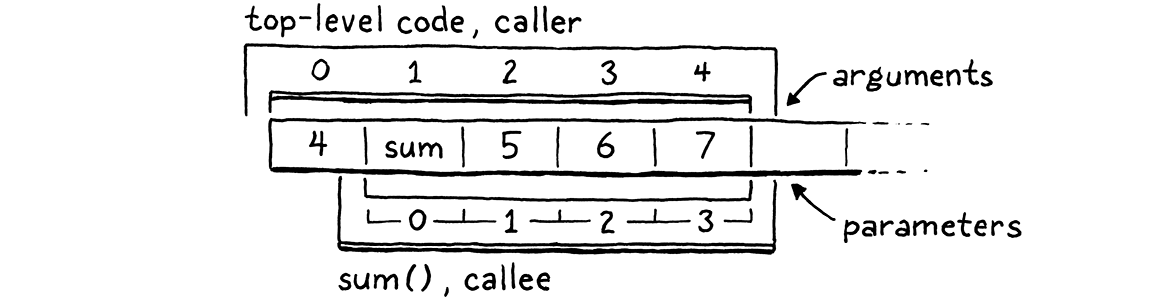
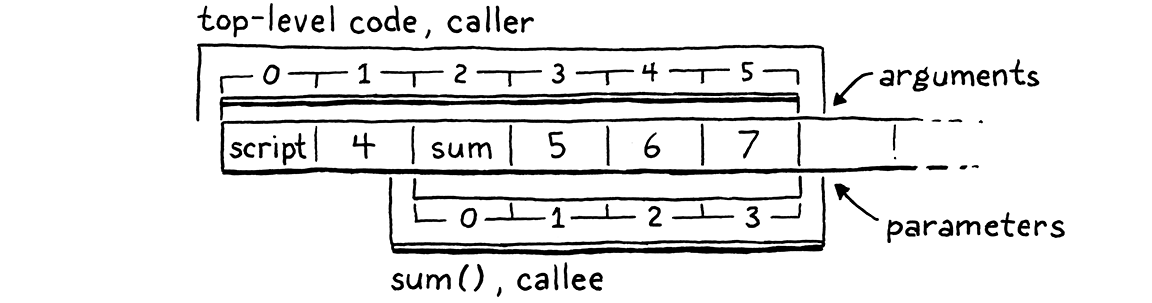
Fix illustrations.

Changed region(s): [[0.1562, 0.0297, 0.9375, 0.9802]]

diff --git a/site/calls-and-functions.html b/site/calls-and-functions.html
@@ -628,8 +628,7 @@ is a &ldquo;frame pointer&rdquo; because it points to the beginning of the funct
 frame. Sometimes you hear &ldquo;base pointer&rdquo;, because it points to the base stack
 slot on top of which all of the function&rsquo;s variables live.</p>
 <p>That&rsquo;s the first piece of data we need to track. Every time we call a function,
-the VM needs to track of the first stack slot where that function&rsquo;s variables
-begin.</p>
+the VM determines first stack slot where that function&rsquo;s variables begin.</p>
 <h3><a href="#return-addresses" name="return-addresses"><small>24&#8202;.&#8202;3&#8202;.&#8202;2</small> Return addresses</a></h3>
 <p>Right now, the VM works its way through the instruction stream by incrementing
 the <code>ip</code> field. The only interesting behavior is around control flow
@@ -860,10 +859,11 @@ replace 10 lines</div>
 <pre class="insert"><span></span>  <span class="n">ObjFunction</span><span class="o">*</span> <span class="n">function</span> <span class="o">=</span> <span class="n">compile</span><span class="p">(</span><span class="n">source</span><span class="p">);</span>             
   <span class="k">if</span> <span class="p">(</span><span class="n">function</span> <span class="o">==</span> <span class="nb">NULL</span><span class="p">)</span> <span class="k">return</span> <span class="n">INTERPRET_COMPILE_ERROR</span><span class="p">;</span>
 
+  <span class="n">push</span><span class="p">(</span><span class="n">OBJ_VAL</span><span class="p">(</span><span class="n">function</span><span class="p">));</span>                             
   <span class="n">CallFrame</span><span class="o">*</span> <span class="n">frame</span> <span class="o">=</span> <span class="o">&amp;</span><span class="n">vm</span><span class="p">.</span><span class="n">frames</span><span class="p">[</span><span class="n">vm</span><span class="p">.</span><span class="n">frameCount</span><span class="o">++</span><span class="p">];</span>      
   <span class="n">frame</span><span class="o">-&gt;</span><span class="n">function</span> <span class="o">=</span> <span class="n">function</span><span class="p">;</span>                          
   <span class="n">frame</span><span class="o">-&gt;</span><span class="n">ip</span> <span class="o">=</span> <span class="n">function</span><span class="o">-&gt;</span><span class="n">chunk</span><span class="p">.</span><span class="n">code</span><span class="p">;</span>                    
-  <span class="n">frame</span><span class="o">-&gt;</span><span class="n">slots</span> <span class="o">=</span> <span class="n">vm</span><span class="p">.</span><span class="n">stackTop</span><span class="p">;</span>                          
+  <span class="n">frame</span><span class="o">-&gt;</span><span class="n">slots</span> <span class="o">=</span> <span class="n">vm</span><span class="p">.</span><span class="n">stack</span><span class="p">;</span>                             
 </pre><pre class="insert-after"><br><span></span>  <span class="n">InterpretResult</span> <span class="n">result</span> <span class="o">=</span> <span class="n">run</span><span class="p">();</span>                      
 </pre></div>
 
@@ -874,19 +874,21 @@ we just made. First, we pass the source code to the compiler. It returns us a
 new ObjFunction containing the compiled top-level code. If we get <code>NULL</code> back,
 it means there was some compile-time error which the compiler has already
 reported. In that case, we bail out since we can&rsquo;t run anything.</p>
-<p>Otherwise, we prepare an initial CallFrame to execute the new function&rsquo;s code.
-We point to the function, initialize frame&rsquo;s the <code>ip</code> to point to the beginning
-of the function&rsquo;s bytecode, and set up its stack window to start at the very
-bottom of the VM&rsquo;s value stack.</p>
+<p>Otherwise, we store the function on the stack and prepare an initial CallFrame
+to execute its code. Now you can see why the compiler sets aside local variable
+stack slot zero<span class="em">&mdash;</span>that stores the function being called. In the new CallFrame,
+we point to the function, initialize its <code>ip</code> to point to the beginning of the
+function&rsquo;s bytecode, and set up its stack window to start at the very bottom of
+the VM&rsquo;s value stack.</p>
 <p>This gets the interpreter ready to start executing code. After finishing, the VM
 used to free the hardcoded chunk. Now that the ObjFunction owns that code, we
 don&rsquo;t need to do that anymore, so the end of <code>interpret()</code> is simply:</p>
-<div class="codehilite"><pre class="insert-before"><span></span>  <span class="n">frame</span><span class="o">-&gt;</span><span class="n">slots</span> <span class="o">=</span> <span class="n">vm</span><span class="p">.</span><span class="n">stackTop</span><span class="p">;</span>
+<div class="codehilite"><pre class="insert-before"><span></span>  <span class="n">frame</span><span class="o">-&gt;</span><span class="n">slots</span> <span class="o">=</span> <span class="n">vm</span><span class="p">.</span><span class="n">stack</span><span class="p">;</span>
 <br></pre><div class="source-file"><em>vm.c</em><br>
 in <em>interpret</em>()<br>
 replace 4 lines</div>
-<pre class="insert"><span></span>  <span class="k">return</span> <span class="nf">run</span><span class="p">();</span>              
-</pre><pre class="insert-after"><span></span><span class="p">}</span>                            
+<pre class="insert"><span></span>  <span class="k">return</span> <span class="nf">run</span><span class="p">();</span>           
+</pre><pre class="insert-after"><span></span><span class="p">}</span>                         
 </pre></div>
 
 <div class="source-file-narrow"><em>vm.c</em>, in <em>interpret</em>(), replace 4 lines</div>
@@ -1200,7 +1202,7 @@ like at the point of a call and what we need to do from there. When we reach the
 call instruction, we have already executed the expression for the function being
 called followed by its arguments. Say our program looks like:</p>
 <div class="codehilite"><pre><span></span><span class="k">fun</span> <span class="n">sum</span><span class="p">(</span><span class="n">a</span><span class="p">,</span> <span class="n">b</span><span class="p">,</span> <span class="n">c</span><span class="p">)</span> <span class="p">{</span>
-  <span class="k">print</span> <span class="n">a</span> <span class="o">+</span> <span class="n">b</span> <span class="o">+</span> <span class="n">c</span><span class="p">;</span>
+  <span class="k">return</span> <span class="n">a</span> <span class="o">+</span> <span class="n">b</span> <span class="o">+</span> <span class="n">c</span><span class="p">;</span>
 <span class="p">}</span>
 
 <span class="k">print</span> <span class="mi">4</span> <span class="o">+</span> <span class="n">sum</span><span class="p">(</span><span class="mi">5</span><span class="p">,</span> <span class="mi">6</span><span class="p">,</span> <span class="mi">7</span><span class="p">);</span>
@@ -1344,12 +1346,12 @@ useful when we get to methods.</p>
 <p>Time for a quick side trip. Now that we have a handy function for initiating a
 CallFrame, we may as well use it to set up the first frame for executing the top
 level code:</p>
-<div class="codehilite"><pre class="insert-before"><span></span>  <span class="k">if</span> <span class="p">(</span><span class="n">function</span> <span class="o">==</span> <span class="nb">NULL</span><span class="p">)</span> <span class="k">return</span> <span class="n">INTERPRET_COMPILE_ERROR</span><span class="p">;</span>
-<br></pre><div class="source-file"><em>vm.c</em><br>
+<div class="codehilite"><pre class="insert-before"><br><span></span>  <span class="n">push</span><span class="p">(</span><span class="n">OBJ_VAL</span><span class="p">(</span><span class="n">function</span><span class="p">));</span>        
+</pre><div class="source-file"><em>vm.c</em><br>
 in <em>interpret</em>()<br>
 replace 4 lines</div>
-<pre class="insert"><span></span>  <span class="n">callValue</span><span class="p">(</span><span class="n">OBJ_VAL</span><span class="p">(</span><span class="n">function</span><span class="p">),</span> <span class="mi">0</span><span class="p">);</span>                     
-</pre><pre class="insert-after"><br><span></span>  <span class="k">return</span> <span class="nf">run</span><span class="p">();</span>                                        
+<pre class="insert"><span></span>  <span class="n">callValue</span><span class="p">(</span><span class="n">OBJ_VAL</span><span class="p">(</span><span class="n">function</span><span class="p">),</span> <span class="mi">0</span><span class="p">);</span>
+</pre><pre class="insert-after"><br><span></span>  <span class="k">return</span> <span class="nf">run</span><span class="p">();</span>                   
 </pre></div>
 
 <div class="source-file-narrow"><em>vm.c</em>, in <em>interpret</em>(), replace 4 lines</div>
@@ -1500,6 +1502,14 @@ and parameters. That includes the same slots the caller used to pass the
 arguments. Now that the call is done, the caller doesn&rsquo;t need them anymore. This
 means the top of the stack ends up right at the beginning of the returning
 function&rsquo;s stack window.</p>
+<div class="codehilite"><pre><span></span><span class="k">fun</span> <span class="n">sum</span><span class="p">(</span><span class="n">a</span><span class="p">,</span> <span class="n">b</span><span class="p">,</span> <span class="n">c</span><span class="p">)</span> <span class="p">{</span>
+  <span class="k">return</span> <span class="n">a</span> <span class="o">+</span> <span class="n">b</span> <span class="o">+</span> <span class="n">c</span><span class="p">;</span>
+<span class="p">}</span>
+
+<span class="k">print</span> <span class="mi">4</span> <span class="o">+</span> <span class="n">sum</span><span class="p">(</span><span class="mi">5</span><span class="p">,</span> <span class="mi">6</span><span class="p">,</span> <span class="mi">7</span><span class="p">);</span>
+</pre></div>
+
+
 <p><strong>todo: illustrate</strong></p>
 <p>We push the return value back onto the stack at that new lower location. Then we
 update the <code>run()</code> function&rsquo;s cached pointer to the current frame. Just like
@@ -1563,12 +1573,12 @@ in <em>statement</em>()</div>
 add after <em>printStatement</em>()</div>
 <pre><span></span><span class="k">static</span> <span class="kt">void</span> <span class="nf">returnStatement</span><span class="p">()</span> <span class="p">{</span>                                
   <span class="k">if</span> <span class="p">(</span><span class="n">match</span><span class="p">(</span><span class="n">TOKEN_SEMICOLON</span><span class="p">))</span> <span class="p">{</span>                                
-    <span class="n">emitByte</span><span class="p">(</span><span class="n">OP_NIL</span><span class="p">);</span>                                          
+    <span class="n">emitReturn</span><span class="p">();</span>                                              
   <span class="p">}</span> <span class="k">else</span> <span class="p">{</span>                                                     
     <span class="n">expression</span><span class="p">();</span>                                              
     <span class="n">consume</span><span class="p">(</span><span class="n">TOKEN_SEMICOLON</span><span class="p">,</span> <span class="s">&quot;Expect &#39;;&#39; after return value.&quot;</span><span class="p">);</span>
+    <span class="n">emitByte</span><span class="p">(</span><span class="n">OP_RETURN</span><span class="p">);</span>                                       
   <span class="p">}</span>                                                            
-  <span class="n">emitByte</span><span class="p">(</span><span class="n">OP_RETURN</span><span class="p">);</span>                                         
 <span class="p">}</span>                                                              
 </pre></div>
 

diff --git a/site/local-variables.html b/site/local-variables.html
@@ -551,18 +551,21 @@ when the scopes overlap such that both are visible at the same time. That&rsquo;
 shadowing, and Lox does allow that. It&rsquo;s only an error to have two variables
 with the same name in the <em>same</em> local scope.</p>
 <p>We detect that error like so:</p>
-<div class="codehilite"><pre class="insert-before"><span></span>  <span class="n">Token</span><span class="o">*</span> <span class="n">name</span> <span class="o">=</span> <span class="o">&amp;</span><span class="n">parser</span><span class="p">.</span><span class="n">previous</span><span class="p">;</span>                                                     
+<div class="codehilite"><pre class="insert-before"><span></span>  <span class="n">Token</span><span class="o">*</span> <span class="n">name</span> <span class="o">=</span> <span class="o">&amp;</span><span class="n">parser</span><span class="p">.</span><span class="n">previous</span><span class="p">;</span>                                      
 </pre><div class="source-file"><em>compiler.c</em><br>
 in <em>declareVariable</em>()</div>
-<pre class="insert"><span></span>  <span class="k">for</span> <span class="p">(</span><span class="kt">int</span> <span class="n">i</span> <span class="o">=</span> <span class="n">current</span><span class="o">-&gt;</span><span class="n">localCount</span> <span class="o">-</span> <span class="mi">1</span><span class="p">;</span> <span class="n">i</span> <span class="o">&gt;=</span> <span class="mi">0</span><span class="p">;</span> <span class="n">i</span><span class="o">--</span><span class="p">)</span> <span class="p">{</span>                                
-    <span class="n">Local</span><span class="o">*</span> <span class="n">local</span> <span class="o">=</span> <span class="o">&amp;</span><span class="n">current</span><span class="o">-&gt;</span><span class="n">locals</span><span class="p">[</span><span class="n">i</span><span class="p">];</span>                                               
-    <span class="k">if</span> <span class="p">(</span><span class="n">local</span><span class="o">-&gt;</span><span class="n">depth</span> <span class="o">!=</span> <span class="o">-</span><span class="mi">1</span> <span class="o">&amp;&amp;</span> <span class="n">local</span><span class="o">-&gt;</span><span class="n">depth</span> <span class="o">&lt;</span> <span class="n">current</span><span class="o">-&gt;</span><span class="n">scopeDepth</span><span class="p">)</span> <span class="k">break</span><span class="p">;</span> <span name="negative"></span>
-    <span class="k">if</span> <span class="p">(</span><span class="n">identifiersEqual</span><span class="p">(</span><span class="n">name</span><span class="p">,</span> <span class="o">&amp;</span><span class="n">local</span><span class="o">-&gt;</span><span class="n">name</span><span class="p">))</span> <span class="p">{</span>                                       
-      <span class="n">error</span><span class="p">(</span><span class="s">&quot;Variable with this name already declared in this scope.&quot;</span><span class="p">);</span>               
-    <span class="p">}</span>                                                                                 
-  <span class="p">}</span>                                                                                   
-<br></pre><pre class="insert-after"><span></span>  <span class="n">addLocal</span><span class="p">(</span><span class="o">*</span><span class="n">name</span><span class="p">);</span>                                                                    
-<span class="p">}</span>                                                                                     
+<pre class="insert"><span></span>  <span class="k">for</span> <span class="p">(</span><span class="kt">int</span> <span class="n">i</span> <span class="o">=</span> <span class="n">current</span><span class="o">-&gt;</span><span class="n">localCount</span> <span class="o">-</span> <span class="mi">1</span><span class="p">;</span> <span class="n">i</span> <span class="o">&gt;=</span> <span class="mi">0</span><span class="p">;</span> <span class="n">i</span><span class="o">--</span><span class="p">)</span> <span class="p">{</span>                 
+    <span class="n">Local</span><span class="o">*</span> <span class="n">local</span> <span class="o">=</span> <span class="o">&amp;</span><span class="n">current</span><span class="o">-&gt;</span><span class="n">locals</span><span class="p">[</span><span class="n">i</span><span class="p">];</span>                                
+    <span class="k">if</span> <span class="p">(</span><span class="n">local</span><span class="o">-&gt;</span><span class="n">depth</span> <span class="o">!=</span> <span class="o">-</span><span class="mi">1</span> <span class="o">&amp;&amp;</span> <span class="n">local</span><span class="o">-&gt;</span><span class="n">depth</span> <span class="o">&lt;</span> <span class="n">current</span><span class="o">-&gt;</span><span class="n">scopeDepth</span><span class="p">)</span> <span class="p">{</span>    
+      <span class="k">break</span><span class="p">;</span> <span name="negative"></span>
+    <span class="p">}</span>
+
+    <span class="k">if</span> <span class="p">(</span><span class="n">identifiersEqual</span><span class="p">(</span><span class="n">name</span><span class="p">,</span> <span class="o">&amp;</span><span class="n">local</span><span class="o">-&gt;</span><span class="n">name</span><span class="p">))</span> <span class="p">{</span>                        
+      <span class="n">error</span><span class="p">(</span><span class="s">&quot;Variable with this name already declared in this scope.&quot;</span><span class="p">);</span>
+    <span class="p">}</span>                                                                  
+  <span class="p">}</span>                                                                    
+<br></pre><pre class="insert-after"><span></span>  <span class="n">addLocal</span><span class="p">(</span><span class="o">*</span><span class="n">name</span><span class="p">);</span>                                                     
+<span class="p">}</span>                                                                      
 </pre></div>
 
 <div class="source-file-narrow"><em>compiler.c</em>, in <em>declareVariable</em>()</div>

diff --git a/book/calls-and-functions.md b/book/calls-and-functions.md
@@ -405,8 +405,7 @@ frame. Sometimes you hear "base pointer", because it points to the base stack
 slot on top of which all of the function's variables live.
 
 That's the first piece of data we need to track. Every time we call a function,
-the VM needs to track of the first stack slot where that function's variables
-begin.
+the VM determines first stack slot where that function's variables begin.
 
 ### Return addresses
 
@@ -575,10 +574,12 @@ new ObjFunction containing the compiled top-level code. If we get `NULL` back,
 it means there was some compile-time error which the compiler has already
 reported. In that case, we bail out since we can't run anything.
 
-Otherwise, we prepare an initial CallFrame to execute the new function's code.
-We point to the function, initialize frame's the `ip` to point to the beginning
-of the function's bytecode, and set up its stack window to start at the very
-bottom of the VM's value stack.
+Otherwise, we store the function on the stack and prepare an initial CallFrame
+to execute its code. Now you can see why the compiler sets aside local variable
+stack slot zero -- that stores the function being called. In the new CallFrame,
+we point to the function, initialize its `ip` to point to the beginning of the
+function's bytecode, and set up its stack window to start at the very bottom of
+the VM's value stack.
 
 This gets the interpreter ready to start executing code. After finishing, the VM
 used to free the hardcoded chunk. Now that the ObjFunction owns that code, we
@@ -806,7 +807,7 @@ called followed by its arguments. Say our program looks like:
 
 ```lox
 fun sum(a, b, c) {
-  print a + b + c;
+  return a + b + c;
 }
 
 print 4 + sum(5, 6, 7);
